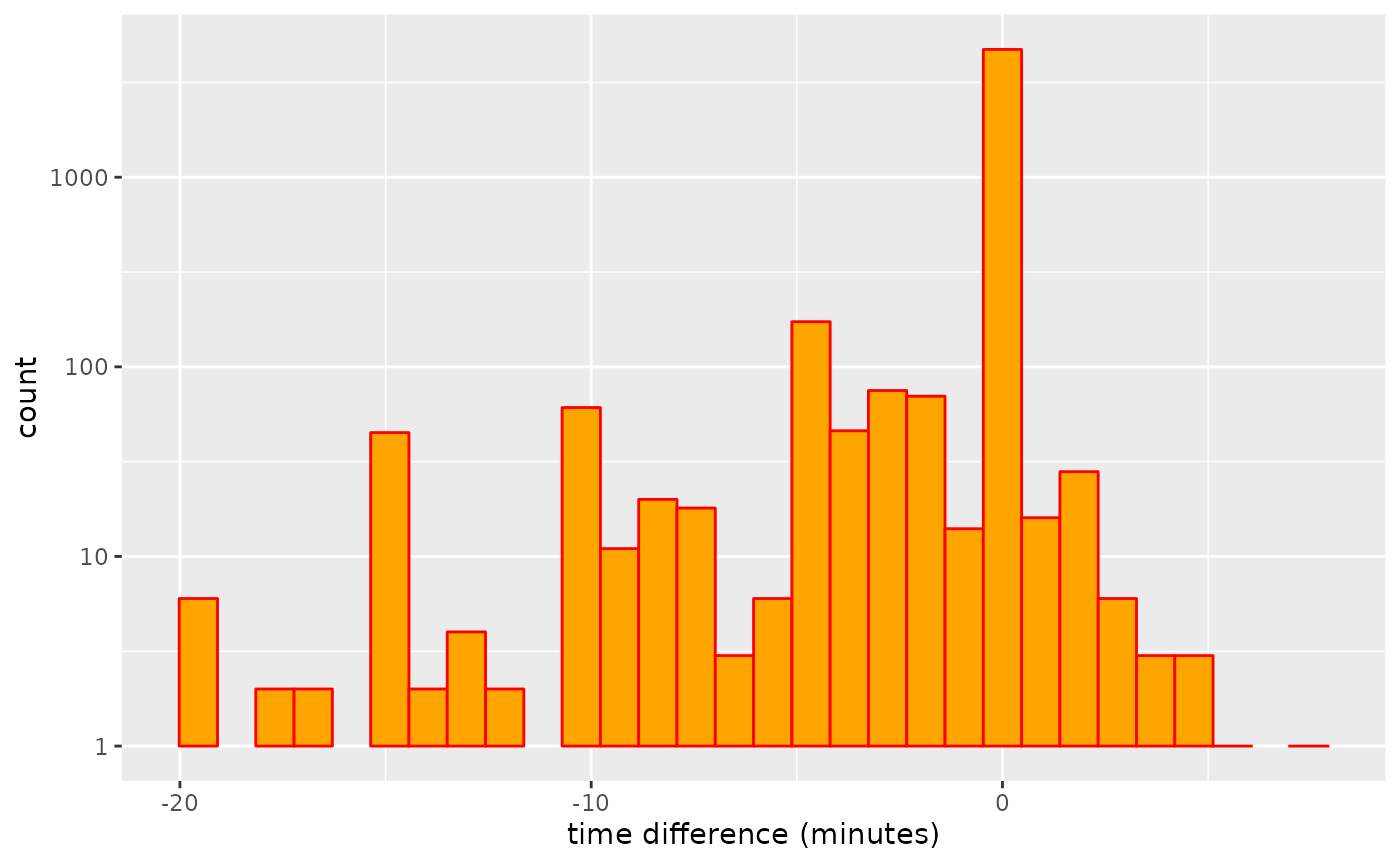
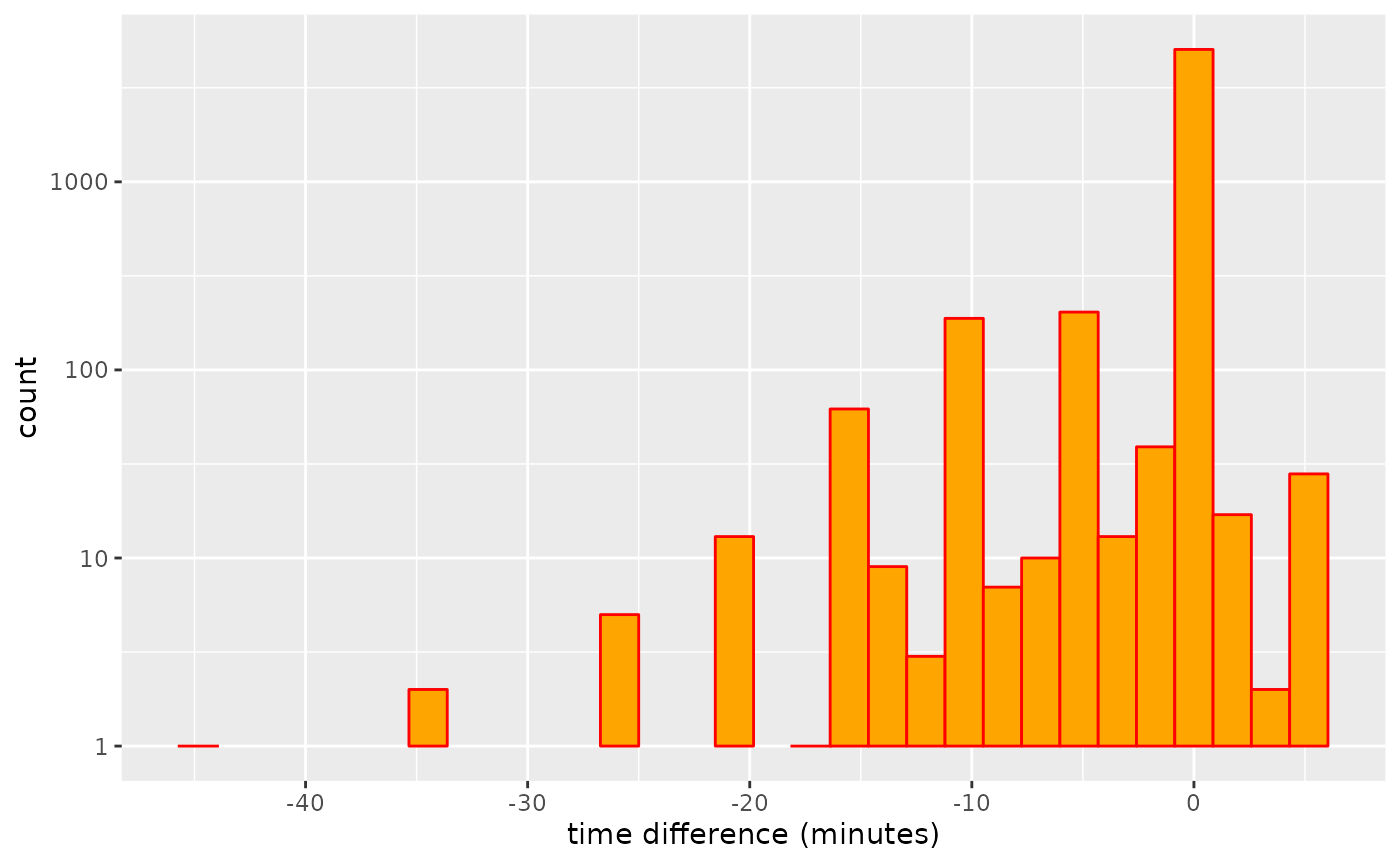
Deploying to gh-pages from @ ATFutures/gtfs-router@69e54069c93b7c2c6c753c6d58be072ab7ffc9f9 🚀

diff --git a/docs/articles/traveltimes.html b/docs/articles/traveltimes.html
@@ -33,7 +33,7 @@
       </button>
       <span class="navbar-brand">
         <a class="navbar-link" href="../index.html">gtfsrouter</a>
-        <span class="version label label-default" data-toggle="tooltip" data-placement="bottom" title="">0.0.5.089</span>
+        <span class="version label label-default" data-toggle="tooltip" data-placement="bottom" title="">0.0.5.091</span>
       </span>
     </div>
 
@@ -86,7 +86,7 @@
 <div class="sourceCode" id="cb1"><pre class="downlit sourceCode r">
 <code class="sourceCode R"><span><span class="kw"><a href="https://rdrr.io/r/base/library.html" class="external-link">library</a></span> <span class="op">(</span><span class="va"><a href="https://github.com/ATFutures/gtfs-router" class="external-link">gtfsrouter</a></span><span class="op">)</span></span>
 <span><span class="fu"><a href="../reference/berlin_gtfs_to_zip.html">berlin_gtfs_to_zip</a></span> <span class="op">(</span><span class="op">)</span></span></code></pre></div>
-<pre><code><span><span class="co">## [1] "/tmp/RtmpCUUw3g/vbb.zip"</span></span></code></pre>
+<pre><code><span><span class="co">## [1] "/tmp/RtmpaQ0FqM/vbb.zip"</span></span></code></pre>
 <div class="sourceCode" id="cb3"><pre class="downlit sourceCode r">
 <code class="sourceCode R"><span><span class="va">f</span> <span class="op">&lt;-</span> <span class="fu"><a href="https://rdrr.io/r/base/file.path.html" class="external-link">file.path</a></span> <span class="op">(</span><span class="fu"><a href="https://rdrr.io/r/base/tempfile.html" class="external-link">tempdir</a></span> <span class="op">(</span><span class="op">)</span>, <span class="st">"vbb.zip"</span><span class="op">)</span></span>
 <span><span class="va">gtfs</span> <span class="op">&lt;-</span> <span class="fu"><a href="../reference/extract_gtfs.html">extract_gtfs</a></span> <span class="op">(</span><span class="va">f</span>, quiet <span class="op">=</span> <span class="cn">TRUE</span><span class="op">)</span></span>
@@ -100,11 +100,11 @@
 <span>                       start_time_limits <span class="op">=</span> <span class="va">start_time_limits</span><span class="op">)</span></span>
 <span><span class="fu"><a href="https://rdrr.io/r/utils/head.html" class="external-link">head</a></span><span class="op">(</span><span class="va">tt</span><span class="op">)</span></span></code></pre></div>
 <pre><code><span><span class="co">##   start_time duration ntransfers      stop_id               stop_name stop_lon</span></span>
-<span><span class="co">## 1   12:03:42 00:14:12          1 060003102223     S Bellevue (Berlin) 13.34710</span></span>
+<span><span class="co">## 1   12:00:42 00:14:42          1 060003102223     S Bellevue (Berlin) 13.34710</span></span>
 <span><span class="co">## 2   12:00:42 00:08:36          0 060003102224     S Bellevue (Berlin) 13.34710</span></span>
 <span><span class="co">## 3   12:00:42 00:15:06          1 060003103233   S Tiergarten (Berlin) 13.33624</span></span>
 <span><span class="co">## 4   12:00:42 00:10:42          0 060003103234   S Tiergarten (Berlin) 13.33624</span></span>
-<span><span class="co">## 5   12:03:42 00:11:18          1 060003201213 S+U Berlin Hauptbahnhof 13.36892</span></span>
+<span><span class="co">## 5   12:00:42 00:14:18          1 060003201213 S+U Berlin Hauptbahnhof 13.36892</span></span>
 <span><span class="co">## 6   12:00:42 00:05:54          0 060003201214 S+U Berlin Hauptbahnhof 13.36892</span></span>
 <span><span class="co">##   stop_lat</span></span>
 <span><span class="co">## 1 52.51995</span></span>
@@ -128,7 +128,7 @@
 <p>The <a href="https://atfutures.github.io/gtfs-router/reference/gtfs_traveltimes.html" class="external-link"><code>gtfs_traveltimes()</code></a>, returns travel times to only a subset of all potentially reachable stations (697 instead of 957) for two main reasons. First, not all stations may actually be reachable from a given station, and travel times will only be returned for those that are. Secondly, the <a href="https://atfutures.github.io/gtfs-router/reference/gtfs_traveltimes.html" class="external-link"><code>gtfs_traveltimes()</code></a>, function has an additional parameter, <code>max_traveltime</code>, and only returns travel times to stations able to be reached within this upper limit. The default value is 3600, or one hour. For the token feed used here, the maximum travel times returned are:</p>
 <div class="sourceCode" id="cb10"><pre class="downlit sourceCode r">
 <code class="sourceCode R"><span><span class="fu">hms</span><span class="fu">::</span><span class="fu"><a href="https://hms.tidyverse.org/reference/hms.html" class="external-link">hms</a></span> <span class="op">(</span><span class="fu"><a href="https://rdrr.io/r/base/integer.html" class="external-link">as.integer</a></span> <span class="op">(</span><span class="fu"><a href="https://rdrr.io/r/base/Extremes.html" class="external-link">max</a></span> <span class="op">(</span><span class="va">tt</span><span class="op">$</span><span class="va">duration</span><span class="op">)</span><span class="op">)</span><span class="op">)</span></span></code></pre></div>
-<pre><code><span><span class="co">## 00:53:36</span></span></code></pre>
+<pre><code><span><span class="co">## 00:58:00</span></span></code></pre>
 <p>In this case that value actually reflects the restricted data included in the sample data set, but applying the function to an actual GTFS feed will by default record traveltimes to all stations reachable within one hour. The following shows a more realistic example using a full version of the Berlin GTFS data:</p>
 <div class="sourceCode" id="cb12"><pre class="downlit sourceCode r">
 <code class="sourceCode R"><span><span class="va">gtfs</span> <span class="op">&lt;-</span> <span class="fu"><a href="../reference/extract_gtfs.html">extract_gtfs</a></span> <span class="op">(</span><span class="st">"/&lt;path&gt;/&lt;to&gt;/vbb.zip"</span><span class="op">)</span></span>

diff --git a/docs/articles/transfers.html b/docs/articles/transfers.html
@@ -33,7 +33,7 @@
       </button>
       <span class="navbar-brand">
         <a class="navbar-link" href="../index.html">gtfsrouter</a>
-        <span class="version label label-default" data-toggle="tooltip" data-placement="bottom" title="">0.0.5.089</span>
+        <span class="version label label-default" data-toggle="tooltip" data-placement="bottom" title="">0.0.5.091</span>
       </span>
     </div>
 
@@ -447,7 +447,7 @@
 <span>    <span class="fu"><a href="https://ggplot2.tidyverse.org/reference/scale_continuous.html" class="external-link">scale_y_log10</a></span> <span class="op">(</span><span class="op">)</span> <span class="op">+</span></span>
 <span>    <span class="fu"><a href="https://ggplot2.tidyverse.org/reference/labs.html" class="external-link">xlab</a></span> <span class="op">(</span><span class="st">"time difference (minutes)"</span><span class="op">)</span></span></code></pre></div>
 <p><img src="transfers_files/figure-html/plot1-1.png" width="700"></p>
-<p>And these additional transfer possibilities can make a significant difference to estimated travel times. Note, however, that the travel times only changed for 593 stations, while the value of <code>nsame</code> value recording numbers of stations for which travel times did not change was 4,584. Travel times may also increase as additional transfers may be used to reduce numbers of connecting services required for a particular trip, and the algorithm generally searches for connections with minimal numbers of transfers.</p>
+<p>And these additional transfer possibilities can make a significant difference to estimated travel times. Note, however, that the travel times only changed for 629 stations, while the value of <code>nsame</code> value recording numbers of stations for which travel times did not change was 4,316. Travel times may also increase as additional transfers may be used to reduce numbers of connecting services required for a particular trip, and the algorithm generally searches for connections with minimal numbers of transfers.</p>
 <p>The following code the quantifies the overall effect of these reductions in travel times, measured as the linear reduction in comparison with travel times calculated using the original transfers table provided with the feed. The function also returns the proportion of all stations for which travel times were affected by the modified transfer table.</p>
 <div class="sourceCode" id="cb42"><pre class="downlit sourceCode r">
 <code class="sourceCode R"><span><span class="va">transfer_difference</span> <span class="op">&lt;-</span> <span class="kw">function</span> <span class="op">(</span><span class="va">gtfs</span>,</span>
@@ -514,7 +514,7 @@
 <span>    <span class="fu"><a href="https://ggplot2.tidyverse.org/reference/geom_point.html" class="external-link">geom_point</a></span> <span class="op">(</span>pch <span class="op">=</span> <span class="fl">19</span>, col <span class="op">=</span> <span class="st">"orange"</span><span class="op">)</span> <span class="op">+</span></span>
 <span>    <span class="fu"><a href="https://ggplot2.tidyverse.org/reference/geom_smooth.html" class="external-link">geom_smooth</a></span> <span class="op">(</span>method <span class="op">=</span> <span class="st">"loess"</span>, formula <span class="op">=</span> <span class="st">"y ~ x"</span><span class="op">)</span></span></code></pre></div>
 <p><img src="transfers_files/figure-html/transfer_d_limit_results-1.png" width="700"></p>
-<p>That result shows that travel times do decrease with increasing limits of maximal transfer distance, although the overall effect is very minimal. The object <code>d</code> also records the proportion of station pairs for which modifications to the transfers table actually changed travel times, which in this case amounts to a mean value of 0.0109, clearly revealing that very few trips actually change.</p>
+<p>That result shows that travel times do decrease with increasing limits of maximal transfer distance, although the overall effect is very minimal. The object <code>d</code> also records the proportion of station pairs for which modifications to the transfers table actually changed travel times, which in this case amounts to a mean value of 0.0056, clearly revealing that very few trips actually change.</p>
 <div class="section level3">
 <h3 id="a-more-realistic-example">A more realistic example<a class="anchor" aria-label="anchor" href="#a-more-realistic-example"></a>
 </h3>

diff --git a/docs/articles/gtfsrouter.html b/docs/articles/gtfsrouter.html
@@ -33,7 +33,7 @@
       </button>
       <span class="navbar-brand">
         <a class="navbar-link" href="../index.html">gtfsrouter</a>
-        <span class="version label label-default" data-toggle="tooltip" data-placement="bottom" title="">0.0.5.089</span>
+        <span class="version label label-default" data-toggle="tooltip" data-placement="bottom" title="">0.0.5.091</span>
       </span>
     </div>
 
@@ -95,7 +95,7 @@
 <p>The one thing neither of these packages enable is the use of GTFS data for transit routing. The <code>gtfsrouter</code> package enables both one-to-one and one-to-many routing. Functionality is demonstrated here through the sample data set included with the package, provided by the “Verkehrsverbund Berlin-Brandenburg” (VBB; or Transport Network Berlin-Brandenburg). The <code>berlin_gtfs</code> data represents a reduced version of the full GTFS data, containing only six tables, and a timetable reduced to the single hour between 12:00-13:00. Like all GTFS software including <a href="https://github.com/r-transit/tidytransit" class="external-link"><code>tidytransit</code></a>, this package is designed to work directly with GTFS data in <code>.zip</code>-archived format, and so includes a helper function, <code><a href="../reference/berlin_gtfs_to_zip.html">berlin_gtfs_to_zip()</a></code>, which exports the internal data set to a locally-stored <code>.zip</code> archive in the <code><a href="https://rdrr.io/r/base/tempfile.html" class="external-link">tempdir()</a></code> of the current <strong>R</strong> session. These data can be exported and re-imported with:</p>
 <div class="sourceCode" id="cb1"><pre class="downlit sourceCode r">
 <code class="sourceCode R"><span><span class="fu"><a href="../reference/berlin_gtfs_to_zip.html">berlin_gtfs_to_zip</a></span><span class="op">(</span><span class="op">)</span></span></code></pre></div>
-<pre><code><span><span class="co">## [1] "/tmp/RtmpVWB5lq/vbb.zip"</span></span></code></pre>
+<pre><code><span><span class="co">## [1] "/tmp/RtmpTH3B7V/vbb.zip"</span></span></code></pre>
 <div class="sourceCode" id="cb3"><pre class="downlit sourceCode r">
 <code class="sourceCode R"><span><span class="va">f</span> <span class="op">&lt;-</span> <span class="fu"><a href="https://rdrr.io/r/base/file.path.html" class="external-link">file.path</a></span> <span class="op">(</span><span class="fu"><a href="https://rdrr.io/r/base/tempfile.html" class="external-link">tempdir</a></span> <span class="op">(</span><span class="op">)</span>, <span class="st">"vbb.zip"</span><span class="op">)</span></span>
 <span><span class="fu"><a href="https://rdrr.io/r/base/files.html" class="external-link">file.exists</a></span> <span class="op">(</span><span class="va">f</span><span class="op">)</span></span></code></pre></div>
@@ -286,7 +286,7 @@
 <span>                day <span class="op">=</span> <span class="st">"Sunday"</span><span class="op">)</span></span>
 <span>    <span class="op">)</span></span></code></pre></div>
 <pre><code><span><span class="co">##    user  system elapsed </span></span>
-<span><span class="co">##   0.055   0.000   0.054</span></span></code></pre>
+<span><span class="co">##    0.06    0.00    0.06</span></span></code></pre>
 <div class="sourceCode" id="cb14"><pre class="downlit sourceCode r">
 <code class="sourceCode R"><span><span class="fu"><a href="https://rdrr.io/r/base/names.html" class="external-link">names</a></span> <span class="op">(</span><span class="va">gtfs</span><span class="op">)</span></span></code></pre></div>
 <pre><code><span><span class="co">## [1] "calendar"   "routes"     "trips"      "stop_times" "stops"     </span></span>
@@ -304,7 +304,7 @@
 <span>                         to <span class="op">=</span> <span class="va">to</span>,</span>
 <span>                         start_time <span class="op">=</span> <span class="st">"12:00:00"</span><span class="op">)</span><span class="op">)</span></span></code></pre></div>
 <pre><code><span><span class="co">##    user  system elapsed </span></span>
-<span><span class="co">##   0.043   0.000   0.043</span></span></code></pre>
+<span><span class="co">##   0.047   0.001   0.047</span></span></code></pre>
 <p>Note that the <code>day</code> parameter is used to extract the timetable, after which it is no longer required in the actual call to <code><a href="../reference/gtfs_route.html">gtfs_route()</a></code>.</p>
 </div>
 <div class="section level3">

diff --git a/docs/reference/gtfs_transfer_table.html b/docs/reference/gtfs_transfer_table.html
@@ -17,7 +17,7 @@
       </button>
       <span class="navbar-brand">
         <a class="navbar-link" href="../index.html">gtfsrouter</a>
-        <span class="version label label-default" data-toggle="tooltip" data-placement="bottom" title="">0.0.5.089</span>
+        <span class="version label label-default" data-toggle="tooltip" data-placement="bottom" title="">0.0.5.091</span>
       </span>
     </div>
 
@@ -112,7 +112,7 @@ throughout the underlying street network. If this is not provided as the
     <div id="ref-examples">
     <h2>Examples</h2>
     <div class="sourceCode"><pre class="sourceCode r"><code><span class="r-in"><span><span class="fu"><a href="berlin_gtfs_to_zip.html">berlin_gtfs_to_zip</a></span> <span class="op">(</span><span class="op">)</span></span></span>
-<span class="r-out co"><span class="r-pr">#&gt;</span> [1] "/tmp/Rtmprh3ysw/vbb.zip"</span>
+<span class="r-out co"><span class="r-pr">#&gt;</span> [1] "/tmp/RtmpfsLkIU/vbb.zip"</span>
 <span class="r-in"><span><span class="va">f</span> <span class="op">&lt;-</span> <span class="fu"><a href="https://rdrr.io/r/base/file.path.html" class="external-link">file.path</a></span> <span class="op">(</span><span class="fu"><a href="https://rdrr.io/r/base/tempfile.html" class="external-link">tempdir</a></span> <span class="op">(</span><span class="op">)</span>, <span class="st">"vbb.zip"</span><span class="op">)</span></span></span>
 <span class="r-in"><span><span class="va">g</span> <span class="op">&lt;-</span> <span class="fu"><a href="extract_gtfs.html">extract_gtfs</a></span> <span class="op">(</span><span class="va">f</span>, quiet <span class="op">=</span> <span class="cn">TRUE</span><span class="op">)</span></span></span>
 <span class="r-in"><span><span class="va">g</span> <span class="op">&lt;-</span> <span class="fu">gtfs_transfer_table</span> <span class="op">(</span><span class="va">g</span>, d_limit <span class="op">=</span> <span class="fl">200</span><span class="op">)</span></span></span>

diff --git a/docs/reference/gtfs_route.html b/docs/reference/gtfs_route.html
@@ -18,7 +18,7 @@ a specified time."><!-- mathjax --><script src="https://cdnjs.cloudflare.com/aja
       </button>
       <span class="navbar-brand">
         <a class="navbar-link" href="../index.html">gtfsrouter</a>
-        <span class="version label label-default" data-toggle="tooltip" data-placement="bottom" title="">0.0.5.089</span>
+        <span class="version label label-default" data-toggle="tooltip" data-placement="bottom" title="">0.0.5.091</span>
       </span>
     </div>
 
@@ -183,7 +183,7 @@ can be calculated by setting <code>earliest_arrival = FALSE</code>.</p>
     <div id="ref-examples">
     <h2>Examples</h2>
     <div class="sourceCode"><pre class="sourceCode r"><code><span class="r-in"><span><span class="fu"><a href="berlin_gtfs_to_zip.html">berlin_gtfs_to_zip</a></span> <span class="op">(</span><span class="op">)</span> <span class="co"># Write sample feed from Berlin, Germany to tempdir</span></span></span>
-<span class="r-out co"><span class="r-pr">#&gt;</span> [1] "/tmp/Rtmprh3ysw/vbb.zip"</span>
+<span class="r-out co"><span class="r-pr">#&gt;</span> [1] "/tmp/RtmpfsLkIU/vbb.zip"</span>
 <span class="r-in"><span><span class="va">f</span> <span class="op">&lt;-</span> <span class="fu"><a href="https://rdrr.io/r/base/file.path.html" class="external-link">file.path</a></span> <span class="op">(</span><span class="fu"><a href="https://rdrr.io/r/base/tempfile.html" class="external-link">tempdir</a></span> <span class="op">(</span><span class="op">)</span>, <span class="st">"vbb.zip"</span><span class="op">)</span> <span class="co"># name of feed</span></span></span>
 <span class="r-in"><span><span class="va">gtfs</span> <span class="op">&lt;-</span> <span class="fu"><a href="extract_gtfs.html">extract_gtfs</a></span> <span class="op">(</span><span class="va">f</span><span class="op">)</span></span></span>
 <span class="r-msg co"><span class="r-pr">#&gt;</span> ▶<span style="color: #00BB00;"> Unzipping GTFS archive</span></span>

diff --git a/docs/reference/berlin_gtfs.html b/docs/reference/berlin_gtfs.html
@@ -23,7 +23,7 @@ characters.'><!-- mathjax --><script src="https://cdnjs.cloudflare.com/ajax/libs
       </button>
       <span class="navbar-brand">
         <a class="navbar-link" href="../index.html">gtfsrouter</a>
-        <span class="version label label-default" data-toggle="tooltip" data-placement="bottom" title="">0.0.5.089</span>
+        <span class="version label label-default" data-toggle="tooltip" data-placement="bottom" title="">0.0.5.091</span>
       </span>
     </div>
 
@@ -96,7 +96,7 @@ for which no route is possible return <code>NULL</code>.</p>
     <div id="ref-examples">
     <h2>Examples</h2>
     <div class="sourceCode"><pre class="sourceCode r"><code><span class="r-in"><span><span class="fu"><a href="berlin_gtfs_to_zip.html">berlin_gtfs_to_zip</a></span> <span class="op">(</span><span class="op">)</span> <span class="co"># Write sample feed from Berlin, Germany to tempdir</span></span></span>
-<span class="r-out co"><span class="r-pr">#&gt;</span> [1] "/tmp/Rtmprh3ysw/vbb.zip"</span>
+<span class="r-out co"><span class="r-pr">#&gt;</span> [1] "/tmp/RtmpfsLkIU/vbb.zip"</span>
 <span class="r-in"><span><span class="va">f</span> <span class="op">&lt;-</span> <span class="fu"><a href="https://rdrr.io/r/base/file.path.html" class="external-link">file.path</a></span> <span class="op">(</span><span class="fu"><a href="https://rdrr.io/r/base/tempfile.html" class="external-link">tempdir</a></span> <span class="op">(</span><span class="op">)</span>, <span class="st">"vbb.zip"</span><span class="op">)</span> <span class="co"># name of feed</span></span></span>
 <span class="r-in"><span><span class="va">gtfs</span> <span class="op">&lt;-</span> <span class="fu"><a href="extract_gtfs.html">extract_gtfs</a></span> <span class="op">(</span><span class="va">f</span><span class="op">)</span></span></span>
 <span class="r-msg co"><span class="r-pr">#&gt;</span> ▶<span style="color: #00BB00;"> Unzipping GTFS archive</span></span>

diff --git a/docs/reference/gtfs_timetable.html b/docs/reference/gtfs_timetable.html
@@ -17,7 +17,7 @@
       </button>
       <span class="navbar-brand">
         <a class="navbar-link" href="../index.html">gtfsrouter</a>
-        <span class="version label label-default" data-toggle="tooltip" data-placement="bottom" title="">0.0.5.089</span>
+        <span class="version label label-default" data-toggle="tooltip" data-placement="bottom" title="">0.0.5.091</span>
       </span>
     </div>
 
@@ -126,7 +126,7 @@ that case will generally take longer.</p>
     <div id="ref-examples">
     <h2>Examples</h2>
     <div class="sourceCode"><pre class="sourceCode r"><code><span class="r-in"><span><span class="fu"><a href="berlin_gtfs_to_zip.html">berlin_gtfs_to_zip</a></span> <span class="op">(</span><span class="op">)</span> <span class="co"># Write sample feed from Berlin, Germany to tempdir</span></span></span>
-<span class="r-out co"><span class="r-pr">#&gt;</span> [1] "/tmp/Rtmprh3ysw/vbb.zip"</span>
+<span class="r-out co"><span class="r-pr">#&gt;</span> [1] "/tmp/RtmpfsLkIU/vbb.zip"</span>
 <span class="r-in"><span><span class="va">f</span> <span class="op">&lt;-</span> <span class="fu"><a href="https://rdrr.io/r/base/file.path.html" class="external-link">file.path</a></span> <span class="op">(</span><span class="fu"><a href="https://rdrr.io/r/base/tempfile.html" class="external-link">tempdir</a></span> <span class="op">(</span><span class="op">)</span>, <span class="st">"vbb.zip"</span><span class="op">)</span> <span class="co"># name of feed</span></span></span>
 <span class="r-in"><span><span class="va">gtfs</span> <span class="op">&lt;-</span> <span class="fu"><a href="extract_gtfs.html">extract_gtfs</a></span> <span class="op">(</span><span class="va">f</span><span class="op">)</span></span></span>
 <span class="r-msg co"><span class="r-pr">#&gt;</span> ▶<span style="color: #00BB00;"> Unzipping GTFS archive</span></span>

diff --git a/docs/reference/gtfs_traveltimes.html b/docs/reference/gtfs_traveltimes.html
@@ -18,7 +18,7 @@ other reachable station in a system."><!-- mathjax --><script src="https://cdnjs
       </button>
       <span class="navbar-brand">
         <a class="navbar-link" href="../index.html">gtfsrouter</a>
-        <span class="version label label-default" data-toggle="tooltip" data-placement="bottom" title="">0.0.5.089</span>
+        <span class="version label label-default" data-toggle="tooltip" data-placement="bottom" title="">0.0.5.091</span>
       </span>
     </div>
 
@@ -156,7 +156,7 @@ to reach all or most stations desired for a particular query, rather than set
     <div id="ref-examples">
     <h2>Examples</h2>
     <div class="sourceCode"><pre class="sourceCode r"><code><span class="r-in"><span><span class="fu"><a href="berlin_gtfs_to_zip.html">berlin_gtfs_to_zip</a></span> <span class="op">(</span><span class="op">)</span></span></span>
-<span class="r-out co"><span class="r-pr">#&gt;</span> [1] "/tmp/Rtmprh3ysw/vbb.zip"</span>
+<span class="r-out co"><span class="r-pr">#&gt;</span> [1] "/tmp/RtmpfsLkIU/vbb.zip"</span>
 <span class="r-in"><span><span class="va">f</span> <span class="op">&lt;-</span> <span class="fu"><a href="https://rdrr.io/r/base/file.path.html" class="external-link">file.path</a></span> <span class="op">(</span><span class="fu"><a href="https://rdrr.io/r/base/tempfile.html" class="external-link">tempdir</a></span> <span class="op">(</span><span class="op">)</span>, <span class="st">"vbb.zip"</span><span class="op">)</span></span></span>
 <span class="r-in"><span><span class="va">g</span> <span class="op">&lt;-</span> <span class="fu"><a href="extract_gtfs.html">extract_gtfs</a></span> <span class="op">(</span><span class="va">f</span><span class="op">)</span></span></span>
 <span class="r-msg co"><span class="r-pr">#&gt;</span> ▶<span style="color: #00BB00;"> Unzipping GTFS archive</span></span>

diff --git a/docs/reference/gtfs_isochrone.html b/docs/reference/gtfs_isochrone.html
@@ -18,7 +18,7 @@ instead."><!-- mathjax --><script src="https://cdnjs.cloudflare.com/ajax/libs/ma
       </button>
       <span class="navbar-brand">
         <a class="navbar-link" href="../index.html">gtfsrouter</a>
-        <span class="version label label-default" data-toggle="tooltip" data-placement="bottom" title="">0.0.5.089</span>
+        <span class="version label label-default" data-toggle="tooltip" data-placement="bottom" title="">0.0.5.091</span>
       </span>
     </div>
 
@@ -175,7 +175,7 @@ of all stations reachable to the specified <code>end_time</code>.</p>
     <div id="ref-examples">
     <h2>Examples</h2>
     <div class="sourceCode"><pre class="sourceCode r"><code><span class="r-in"><span><span class="fu"><a href="berlin_gtfs_to_zip.html">berlin_gtfs_to_zip</a></span> <span class="op">(</span><span class="op">)</span></span></span>
-<span class="r-out co"><span class="r-pr">#&gt;</span> [1] "/tmp/Rtmprh3ysw/vbb.zip"</span>
+<span class="r-out co"><span class="r-pr">#&gt;</span> [1] "/tmp/RtmpfsLkIU/vbb.zip"</span>
 <span class="r-in"><span><span class="va">f</span> <span class="op">&lt;-</span> <span class="fu"><a href="https://rdrr.io/r/base/file.path.html" class="external-link">file.path</a></span> <span class="op">(</span><span class="fu"><a href="https://rdrr.io/r/base/tempfile.html" class="external-link">tempdir</a></span> <span class="op">(</span><span class="op">)</span>, <span class="st">"vbb.zip"</span><span class="op">)</span></span></span>
 <span class="r-in"><span><span class="va">g</span> <span class="op">&lt;-</span> <span class="fu"><a href="extract_gtfs.html">extract_gtfs</a></span> <span class="op">(</span><span class="va">f</span><span class="op">)</span></span></span>
 <span class="r-msg co"><span class="r-pr">#&gt;</span> ▶<span style="color: #00BB00;"> Unzipping GTFS archive</span></span>

diff --git a/docs/reference/extract_gtfs.html b/docs/reference/extract_gtfs.html
@@ -17,7 +17,7 @@
       </button>
       <span class="navbar-brand">
         <a class="navbar-link" href="../index.html">gtfsrouter</a>
-        <span class="version label label-default" data-toggle="tooltip" data-placement="bottom" title="">0.0.5.089</span>
+        <span class="version label label-default" data-toggle="tooltip" data-placement="bottom" title="">0.0.5.091</span>
       </span>
     </div>
 
@@ -102,7 +102,7 @@ function to the two time columns of the "stop_times" table.</p>
     <div id="ref-examples">
     <h2>Examples</h2>
     <div class="sourceCode"><pre class="sourceCode r"><code><span class="r-in"><span><span class="fu"><a href="berlin_gtfs_to_zip.html">berlin_gtfs_to_zip</a></span> <span class="op">(</span><span class="op">)</span> <span class="co"># Write sample feed from Berlin, Germany to tempdir</span></span></span>
-<span class="r-out co"><span class="r-pr">#&gt;</span> [1] "/tmp/Rtmprh3ysw/vbb.zip"</span>
+<span class="r-out co"><span class="r-pr">#&gt;</span> [1] "/tmp/RtmpfsLkIU/vbb.zip"</span>
 <span class="r-in"><span><span class="va">f</span> <span class="op">&lt;-</span> <span class="fu"><a href="https://rdrr.io/r/base/file.path.html" class="external-link">file.path</a></span> <span class="op">(</span><span class="fu"><a href="https://rdrr.io/r/base/tempfile.html" class="external-link">tempdir</a></span> <span class="op">(</span><span class="op">)</span>, <span class="st">"vbb.zip"</span><span class="op">)</span> <span class="co"># name of feed</span></span></span>
 <span class="r-in"><span><span class="va">gtfs</span> <span class="op">&lt;-</span> <span class="fu">extract_gtfs</span> <span class="op">(</span><span class="va">f</span><span class="op">)</span></span></span>
 <span class="r-msg co"><span class="r-pr">#&gt;</span> ▶<span style="color: #00BB00;"> Unzipping GTFS archive</span></span>

diff --git a/docs/reference/summary.gtfs.html b/docs/reference/summary.gtfs.html
@@ -17,7 +17,7 @@
       </button>
       <span class="navbar-brand">
         <a class="navbar-link" href="../index.html">gtfsrouter</a>
-        <span class="version label label-default" data-toggle="tooltip" data-placement="bottom" title="">0.0.5.089</span>
+        <span class="version label label-default" data-toggle="tooltip" data-placement="bottom" title="">0.0.5.091</span>
       </span>
     </div>
 
@@ -82,7 +82,7 @@
     <div id="ref-examples">
     <h2>Examples</h2>
     <div class="sourceCode"><pre class="sourceCode r"><code><span class="r-in"><span><span class="fu"><a href="berlin_gtfs_to_zip.html">berlin_gtfs_to_zip</a></span> <span class="op">(</span><span class="op">)</span></span></span>
-<span class="r-out co"><span class="r-pr">#&gt;</span> [1] "/tmp/Rtmprh3ysw/vbb.zip"</span>
+<span class="r-out co"><span class="r-pr">#&gt;</span> [1] "/tmp/RtmpfsLkIU/vbb.zip"</span>
 <span class="r-in"><span><span class="va">f</span> <span class="op">&lt;-</span> <span class="fu"><a href="https://rdrr.io/r/base/file.path.html" class="external-link">file.path</a></span> <span class="op">(</span><span class="fu"><a href="https://rdrr.io/r/base/tempfile.html" class="external-link">tempdir</a></span> <span class="op">(</span><span class="op">)</span>, <span class="st">"vbb.zip"</span><span class="op">)</span></span></span>
 <span class="r-in"><span><span class="va">g</span> <span class="op">&lt;-</span> <span class="fu"><a href="extract_gtfs.html">extract_gtfs</a></span> <span class="op">(</span><span class="va">f</span><span class="op">)</span></span></span>
 <span class="r-msg co"><span class="r-pr">#&gt;</span> ▶<span style="color: #00BB00;"> Unzipping GTFS archive</span></span>

diff --git a/docs/authors.html b/docs/authors.html
@@ -17,7 +17,7 @@
       </button>
       <span class="navbar-brand">
         <a class="navbar-link" href="index.html">gtfsrouter</a>
-        <span class="version label label-default" data-toggle="tooltip" data-placement="bottom" title="">0.0.5.089</span>
+        <span class="version label label-default" data-toggle="tooltip" data-placement="bottom" title="">0.0.5.091</span>
       </span>
     </div>
 
@@ -74,13 +74,13 @@
 
     <p>Padgham M, Stepniak M (2022).
 <em>gtfsrouter: Routing with GTFS (General Transit Feed Specification) Data</em>.
-R package version 0.0.5.089, <a href="https://github.com/ATFutures/gtfs-router" class="external-link">https://github.com/ATFutures/gtfs-router</a>. 
+R package version 0.0.5.091, <a href="https://github.com/ATFutures/gtfs-router" class="external-link">https://github.com/ATFutures/gtfs-router</a>. 
 </p>
     <pre>@Manual{,
   title = {gtfsrouter: Routing with GTFS (General Transit Feed Specification) Data},
   author = {Mark Padgham and Marcin Stepniak},
   year = {2022},
-  note = {R package version 0.0.5.089},
+  note = {R package version 0.0.5.091},
   url = {https://github.com/ATFutures/gtfs-router},
 }</pre>
 
